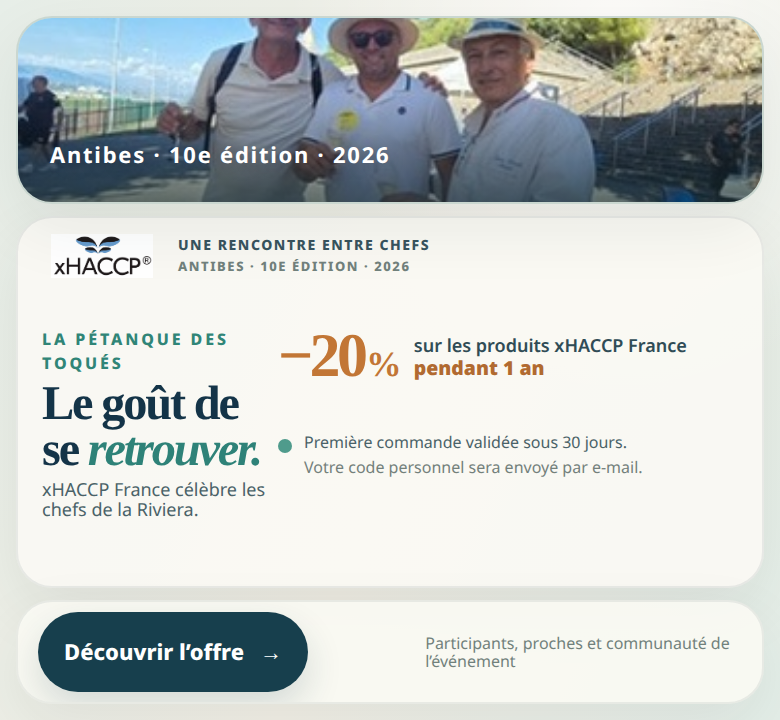
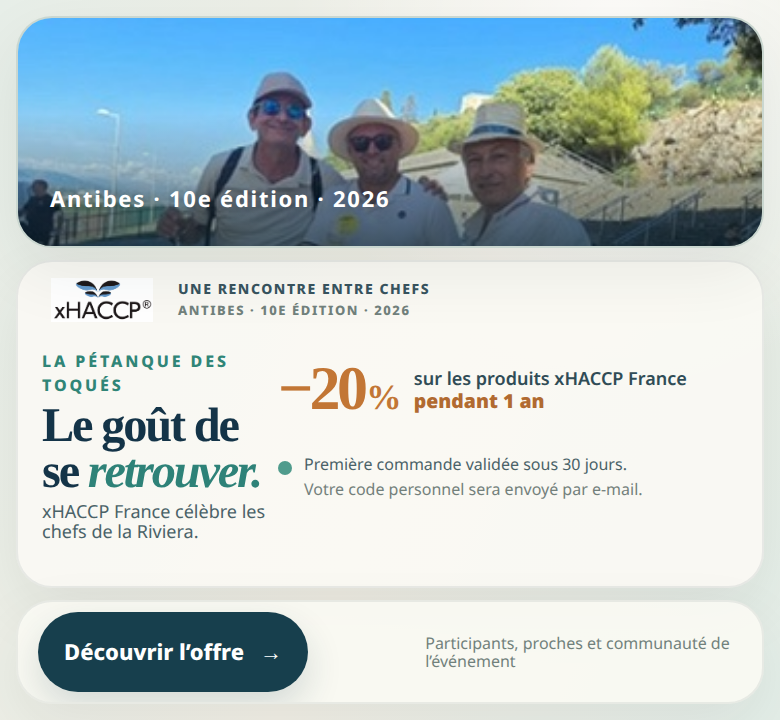
Update French chef event mockup assets and component
Replit-Commit-Author: Agent

diff --git a/artifacts/mockup-sandbox/src/components/mockups/fr-chef-event/Extended.tsx b/artifacts/mockup-sandbox/src/components/mockups/fr-chef-event/Extended.tsx
@@ -538,7 +538,7 @@ export function Extended() {
         }
         @media (max-width: 640px) {
           .fr-extended__hero {
-            grid-template-rows: 94px minmax(0, 1fr) 52px;
+            grid-template-rows: 116px minmax(0, 1fr) 52px;
             height: 360px;
             min-height: 360px;
             max-height: 360px;
@@ -550,6 +550,9 @@ export function Extended() {
           .fr-extended__photo {
             height: auto;
             min-height: 0;
+          }
+          .fr-extended__photo img {
+            object-position: center 32%;
           }
           .fr-extended__copy {
             display: grid;
